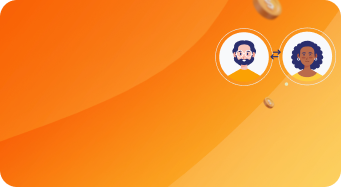
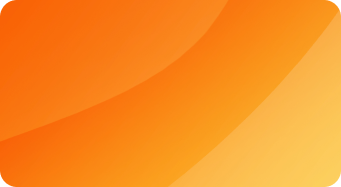
before tab

diff --git a/src/screens/HomePage/HomePage.js b/src/screens/HomePage/HomePage.js
@@ -18,6 +18,8 @@ import Footer from "../../components/Footer/Footer";
 import HomeButton from "../../components/HomeButton";
 import { useNavigation } from "@react-navigation/native";
 import plus from "../../../assets/images/gala_add.png";
+import arrow from "../../../assets/images/OneMoneyarrow-right.png";
+import Faces from "../../../assets/images/Faces.png";
 
 const HomePage = () => {
   // const [name, setName] = useState("");
@@ -26,6 +28,10 @@ const HomePage = () => {
 
   const createAppPress = () => {
     console.warn("createAppPress");
+  };
+
+  const onPress = () => {
+    console.warn("contact sales pressed");
   };
 
   // useLayoutEffect(() => {
@@ -82,13 +88,27 @@ const HomePage = () => {
 
           <View style={styles.buttonRow}></View>
 
-          <ImageBackground
+          <View
             style={styles.BackImage}
-            resizeMode="contain"
-            source={require("../../../assets/images/Frame 1160464453.png")}
+            //resizeMode="contain"
+            //source={require("../../../assets/images/OneMoneyStartnow.png")}
           >
-            <Text>Need huge funding?</Text>
-          </ImageBackground>
+            <View style={styles.topFlex}>
+              <Text style={styles.mainText}>Need huge {"\n"} funding?</Text>
+              <Image source={Faces} style={styles.Faces} />
+            </View>
+
+            <Text style={styles.secondaryText}>
+              Are you a business owner? {"\n"} Need huge funding for business
+              operations? {"\n"} OneMoney has got a special offer for you.{" "}
+            </Text>
+            <TouchableOpacity onPress={onPress}>
+              <View style={styles.contactBtn}>
+                <Text style={styles.contactText}>Contact Sales</Text>
+                <Image source={arrow} style={styles.arrow} />
+              </View>
+            </TouchableOpacity>
+          </View>
 
           <Footer />
         </View>
@@ -116,7 +136,7 @@ const styles = StyleSheet.create({
 
     borderRadius: 20,
 
-    marginBottom: 25,
+    marginBottom: 35,
   },
 
   requestTitle: {
@@ -139,11 +159,65 @@ const styles = StyleSheet.create({
   },
 
   BackImage: {
+    // padding: 15,
+    // // flex: 1,
+    // height: 120,
+    // width: 342,
+    // position: "relative",
+
     padding: 15,
     flex: 1,
-    height: 161,
+    height: 167,
     width: 342,
     position: "relative",
+    color: "black",
+    backgroundColor: "#FA801B",
+
+    borderRadius: 20,
+
+    marginBottom: 25,
+  },
+
+  mainText: {
+    color: "white",
+    fontWeight: "700",
+    fontSize: 22.2,
+    marginBottom: 5,
+  },
+
+  topFlex: {
+    display: "flex",
+    flexDirection: "row",
+    //alignItems: "center",
+  },
+
+  Faces: {
+    position: "absolute",
+    top: 0,
+    left: 202,
+  },
+
+  secondaryText: {
+    color: "white",
+    fontWeight: "500",
+    marginBottom: 7,
+  },
+
+  contactBtn: {
+    left: 3,
+    display: "flex",
+    flexDirection: "row",
+    alignItems: "center",
+  },
+
+  contactText: {
+    fontWeight: "500",
+    fontSize: 15,
+  },
+
+  arrow: {
+    marginLeft: 5,
+    width: 15,
   },
 });
 

diff --git a/src/screens/SplashScreen/SplashScreen.js b/src/screens/SplashScreen/SplashScreen.js
@@ -25,8 +25,6 @@ const SplashScreen = () => {
   const { height } = useWindowDimensions();
 
   const OnGetStartedPressed = () => {
-    console.warn("OnGetStartedPressed");
-
     navigation.navigate("SignIn");
   };
 
